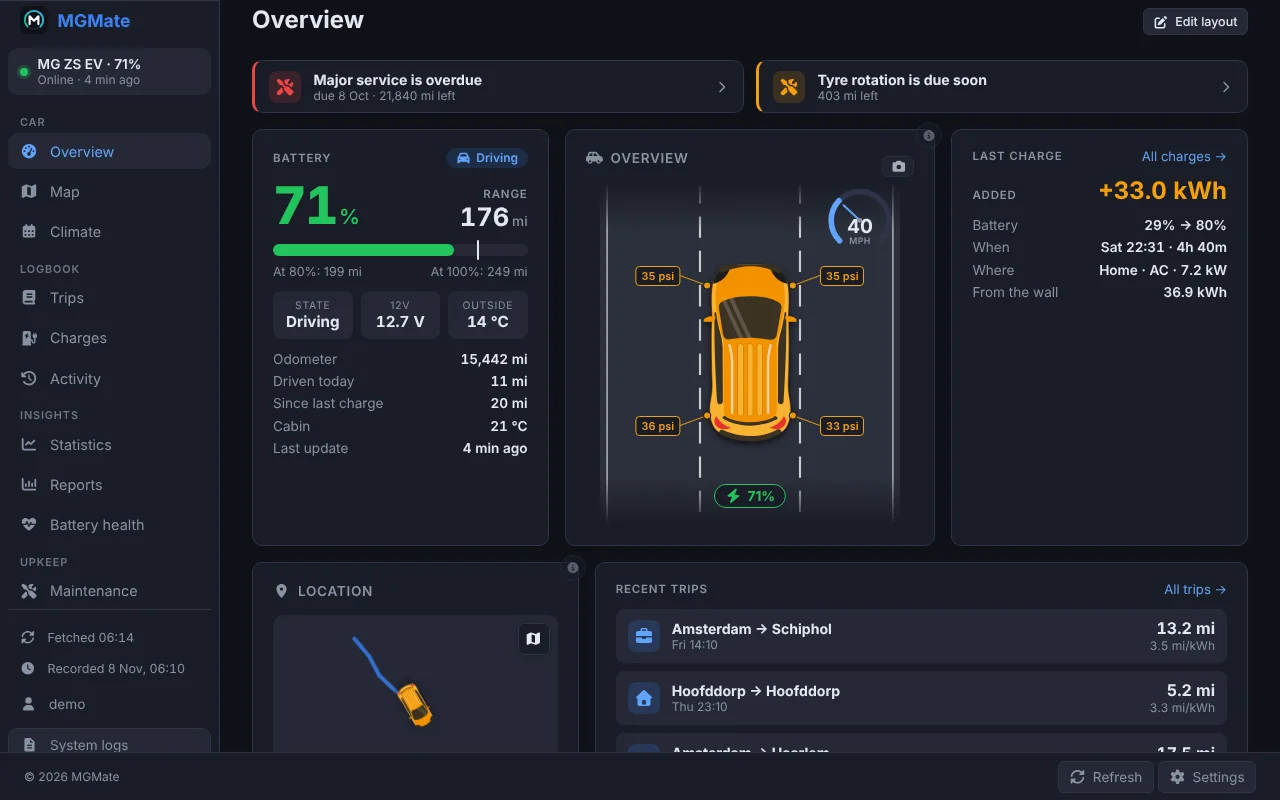
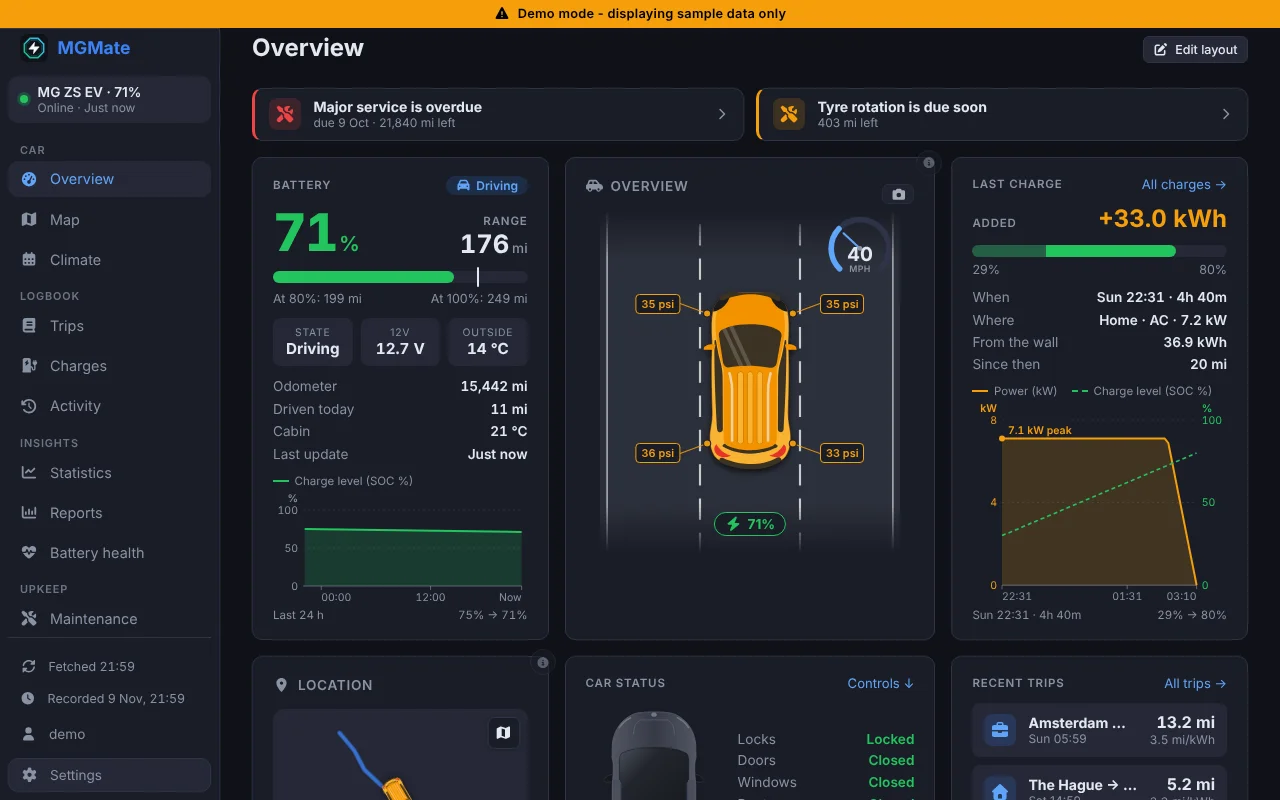
README: describe everything added since the rebrand, with new screenshots
- New demo screenshots on desktop and phone, plus Settings, Debug and the
  Overview while charging (pnpm screenshots now takes those too)
- README: redesigned Overview, live charging card, car status drawing,
  Settings page and Home location, Debug page, MG sign-in banner, 24 h
  statistics, AC peak fix, battery health calibration, security hardening
- Says what was removed: Home Assistant (the gateway's discovery messages
  are still read internally) and Dutch
- Version and update notice moved from the footer to the sidebar in the docs
- CONTRIBUTING, AGENTS.md, CLAUDE.md and the PR template: every feature PR
  updates the README and its screenshots

Claude-Session: https://claude.ai/code/session_01JCP7VXjJbkT4NkJqH8gmAt

diff --git a/README.md b/README.md
@@ -6,17 +6,18 @@
 [![Docker image build](https://github.com/ViriatusOG/MGMate/actions/workflows/docker-publish.yml/badge.svg?branch=main)](https://github.com/ViriatusOG/MGMate/actions/workflows/docker-publish.yml)
 [![MIT licence](https://img.shields.io/github/license/ViriatusOG/MGMate)](LICENSE)
 
-![The MGMate overview: battery and range, the car on the road with its tyre pressures and speed, the last charge with the energy added, where the car is, and the latest trips](documentation/screenshots/desktop-dashboard.webp)
+![The MGMate overview: the battery with its range and a 24-hour charge level chart, the car on the road with its tyre pressures and speed, the last charge with its power curve, where the car is, the car status and the latest trips](documentation/screenshots/desktop-dashboard.webp)
 
 MGMate is a free, open-source web app for **modern MG cars**, the ones built by SAIC Motor such as the MG4, MG5, ZS EV and HS PHEV. It signs in to the SAIC iSmart API, the same backend the official MG iSmart app uses, records everything the car reports, and turns it into a logbook you can actually use, on a desktop or a phone:
 
-- **See the car at a glance.** Battery, range, tyre pressures, doors, windows and climate on one overview, with the last charge and your latest trips beside them, and your own photo of the car while it is parked.
+- **See the car at a glance.** Battery, range and the last 24 hours of charge level, tyre pressures, the last charge with its power curve, and a drawing of the car from above that shows which doors, windows, boot or bonnet are open, whether it is locked and whether the cable is in. While the car charges, the battery card turns into a live charging card with the power, voltage, current and target.
 - **Every trip, logged.** Trips are saved automatically with the energy they used, mi/kWh, driving and stopped time, the outside temperature and the battery they started and ended on, drawn on the map along the roads you took.
 - **Every charge, logged.** Each plug-in becomes a charge session: energy added, AC or DC, peak power, how long it took, where it was, and what it cost at your electricity prices, with what came from the wall next to what reached the battery.
 - **Reports, month by month.** Distance, trips, driving time, consumption, energy charged and charging cost for each month, against the month before, with a 12-month chart and a yearly table.
-- **Know your battery.** Battery health works out the usable capacity from your charges, compares it with the pack when new, and shows the trend over time. The 12V battery, temperatures, distance and range get charts of their own on Statistics.
+- **Know your battery.** Battery health works out the usable capacity from your charges, compares it with the pack when new, and shows the trend over time. It waits for a charge to 100 % first, because that is when the car knows its charge level exactly. The 12V battery, temperatures, distance and range get charts of their own on Statistics.
 - **Keep a trip log for the taxman.** Mark trips as business, commute or private, add notes, search them, and export a month or a year as a spreadsheet.
 - **Control it from anywhere.** Pre-condition the cabin, lock the car or flash its lights to find it, and see whether the car actually carried the command out, without waking the car more than it needs.
+- **See everything the car reports.** Switch on Advanced in Settings and a Debug page lists every sensor and control the MG gateway announces, with its latest value and whether MGMate keeps its history.
 - **Hear about it when something is off.** Push notifications for low tyre pressure, a car left unlocked, a window left open, charging complete, maintenance coming due and more.
 - **Keep it yours.** Everything runs in Docker on your own hardware, as one all-in-one container or a Compose stack. No subscription, and no account needed beyond your MG login.
 
@@ -25,6 +26,12 @@ MGMate is a free, open-source web app for **modern MG cars**, the ones built by 
 ## Screenshots
 
 The screenshots use the demo's sample car and trips.
+
+### While charging
+
+The battery card becomes a live charging card, and the car status drawing shows the cable in, an open boot and an open window:
+
+![The overview while the car charges at home: 16.2 kW at 386 V and 42 A towards an 80 % target, the car from above with the charging cable, and the car status card listing the open window and boot](documentation/screenshots/desktop-dashboard-charging.webp)
 
 ### Trips
 
@@ -44,15 +51,29 @@ Every charge, with the energy added, how long it took, AC or DC, and where:
 
 ### Battery health
 
-![The Battery health page: a gauge at 100 % health, the usable capacity of 64.1 kWh against a 64 kWh pack, the charges it is based on, the trend, and a chart of the capacity readings over time](documentation/screenshots/desktop-battery-health.webp)
+![The Battery health page: a gauge at 100 % health, the usable capacity of 64.1 kWh against a 64 kWh pack with a note that it reads above new, the charges it is based on, the trend, and a chart of the capacity readings over time](documentation/screenshots/desktop-battery-health.webp)
+
+### Settings
+
+Settings is a page of its own, with a section list on the left. Home location sets where you charge at home, with a radius you drag:
+
+![The Settings page: appearance, region and units, and the home location on a map with a 250 m radius slider](documentation/screenshots/desktop-settings.webp)
+
+### Debug
+
+With **Settings > Advanced** switched on, the Debug page lists everything the MG gateway announces for the car, like a device page in a smart-home app: what it is, its latest value, whether MGMate saves it, and the controls, each of which asks before it sends:
+
+![The Debug page: the car's model and gateway version, how many values are saved on every poll, what MG cannot do (open or close windows), and the controls and sensors with their latest values](documentation/screenshots/desktop-debug.webp)
 
 ### On a phone
 
 <!-- markdownlint-disable MD033 -->
 
-| Overview | Trips | Charges | Reports |
-| -------- | ----- | ------- | ------- |
-| <img src="documentation/screenshots/mobile-dashboard.webp" alt="The overview on a phone" width="200"> | <img src="documentation/screenshots/mobile-trips.webp" alt="Trips on a phone, with a week strip and the day's trips" width="200"> | <img src="documentation/screenshots/mobile-charges.webp" alt="Charges on a phone" width="200"> | <img src="documentation/screenshots/mobile-reports.webp" alt="Reports on a phone" width="200"> |
+| Overview | Charging | Trips | Charges |
+| -------- | -------- | ----- | ------- |
+| <img src="documentation/screenshots/mobile-dashboard.webp" alt="The overview on a phone" width="200"> | <img src="documentation/screenshots/mobile-dashboard-charging.webp" alt="The live charging card and the car from above on a phone" width="200"> | <img src="documentation/screenshots/mobile-trips.webp" alt="Trips on a phone, with a week strip and the day's trips" width="200"> | <img src="documentation/screenshots/mobile-charges.webp" alt="Charges on a phone" width="200"> |
+| **Reports** | **Battery health** | **Settings** | **Debug** |
+| <img src="documentation/screenshots/mobile-reports.webp" alt="Reports on a phone" width="200"> | <img src="documentation/screenshots/mobile-battery-health.webp" alt="Battery health on a phone" width="200"> | <img src="documentation/screenshots/mobile-settings.webp" alt="Settings on a phone" width="200"> | <img src="documentation/screenshots/mobile-debug.webp" alt="The Debug page on a phone" width="200"> |
 
 <!-- markdownlint-enable MD033 -->
 
@@ -70,9 +91,18 @@ MGMate is based on [GarageStack](https://github.com/joszz/GarageStack) by Jos Ni
 - **Statistics** for the 12V battery, distance, range and temperatures, and consumption against outside temperature
 - **Trip detail** with energy, driving and stopped time, median speed, the battery range used and a GPX download
 - **A car photo** on the overview, and **battery-friendly polling** that only wakes the car when you ask it to
-- **A redesigned interface** with a grouped sidebar, a phone tab bar and a new icon
+- **A redesigned overview** with a live charging card, a car status drawing traced from an MG4 seen from above, and small charge level and charging power charts
+- **Settings as a page**, with your **home location** and its radius, and an **Advanced** switch for a **Debug** page of everything the gateway reports
+- **A clear warning when the MG sign-in fails**, in the sidebar and as a banner, instead of data that silently stops
+- **A redesigned interface** with a grouped sidebar, a phone tab bar, the version and Refresh in the sidebar, and a new icon
+- **English only**, and **no Home Assistant integration** (see [What was removed](#what-was-removed))
 
 Thanks to Jos for the foundation.
+
+### What was removed
+
+- **Home Assistant.** MGMate no longer publishes sensors to Home Assistant, and the `HA_MQTT_*` settings and the external MQTT port (1883) are gone. If you used them, remove those settings and the port mapping; nothing else needs changing. The MG gateway still sends its own discovery messages (the Home Assistant MQTT discovery format) inside the stack, and MGMate still reads them to tell which kind of car it is and to fill the Debug page, so don't switch them off in the gateway.
+- **Dutch.** The interface, notifications and exports are English only. A fork can add a language again; see [Adding a language](.github/CONTRIBUTING.md#adding-a-language).
 
 **Want to try it?** Read [MG iSmart account and session limits](#mg-ismart-account-and-session-limits) first, because MGMate and the MG app cannot be signed in to the same account at once, then pick an [installation option](#installation). A single `docker run` is enough to get going.
 
@@ -92,17 +122,21 @@ Thanks to Jos for the foundation.
 
 ## Features
 
-- **Charges** -- Every plug-in is saved as a charge session with the energy added, AC or DC, peak power, duration, place, the battery before and after, and the cost at the electricity prices you set (Charges > Prices). On AC the energy drawn from the wall is shown next to what reached the battery.
+- **Charges** -- Every plug-in is saved as a charge session with the energy added, AC or DC, peak power, duration, place, the battery before and after, and the cost at the electricity prices you set (Charges > Prices). On AC the energy drawn from the wall is shown next to what reached the battery. The peak power of an AC charge leaves out the short spike when the car pre-heats or cools the cabin just after charging stops. A charge that ends at your [home location](#features) is labelled home.
 - **Reports** -- A page per month with distance, trips, driving time, days driven, consumption, energy used, charges, energy charged and charging cost, each against the month before, plus a 12-month chart and a table of the year.
-- **Battery health** -- The usable capacity worked out from charges that covered at least 20 % of the battery, compared with the pack when new (51, 64 or 77 kWh, or your own), with the trend and every reading on a chart.
+- **Battery health** -- The usable capacity worked out from charges that covered at least 20 % of the battery, compared with the pack when new (51, 64 or 77 kWh, or your own), with the trend and every reading on a chart. The car only knows its exact charge level after a full charge (LFP packs drift the most), so health shows *Calibrating* until a charge reaches 100 %; from then on only readings with a full charge in the 30 days before them count, and the earlier ones are drawn hollow. Health never shows above 100 %: a pack that reads above new says so in a note, and fewer than five readings are marked as an early estimate.
 - **Activity** -- A 24-hour strip and a timeline of when the car drove, charged, slept or went quiet, read from the car's own reports.
-- **Live dashboard** -- Real-time vehicle telemetry displayed as configurable cards. Cards are automatically shown or hidden based on your vehicle type (HEV, PHEV, BEV) and can be reordered or toggled individually in the dashboard's edit mode. The car drawn on the dashboard takes your car's colour (Settings > Car colour), and the vehicle type can be set by hand under Settings > Vehicle type when detection gets it wrong.
+- **Overview** -- The battery with its range and a 24-hour charge level chart; the car on the road with its speed and tyre pressures (or your own photo of it while parked); the last charge with the energy added, where, what came from the wall, the miles since, and its charging power curve with the peak marked; where the car is; a **car status** drawing from above, traced from a real MG4, with open doors, windows, boot and bonnet, the lock and the charging cable; and the latest trips. While the car charges, the battery card becomes a **live charging card** with the power, voltage, current, the charge target and the range so far. The charts have labelled axes, units and a legend. Values arrive live over a WebSocket; while that connection is down, the page asks for the latest status every minute so it never sits on stale numbers.
+- **Live dashboard cards** -- Behind **Edit layout**, the classic wall of status cards (see [Dashboard cards](#dashboard-cards)) can be switched on, reordered and toggled. Cards are shown or hidden based on your vehicle type (HEV, PHEV, BEV). The car drawing takes your car's colour (Settings > Your car), and the vehicle type can be set by hand there when detection gets it wrong.
+- **MG sign-in status** -- When the gateway cannot sign in to your MG account, the sidebar's car status turns red and a banner says "MG sign-in failed", so you know why the data stopped. The sidebar also shows when data was last fetched (tap it to refresh, which asks first because it wakes the car) and the version, under Log out.
+- **Settings page** -- Settings is a page (`/settings`) with a section list: appearance, region and units, dashboard, map, your car (colour, vehicle type, licence plate), **home location**, notifications, API tokens, your data, and Advanced. Home location is a point on a map with a radius from 50 m to 1 km: a charge that ends inside it counts as a home charge and is priced with your home tariff; anywhere else is public. The home place set under Trip log > Home and work labels home charges too.
+- **Debug page** -- Switch on **Settings > Advanced** and a Debug page appears in the sidebar. It lists every sensor and control the MG gateway announces for the car, grouped like a smart-home device page, with the latest value, when it changed, and whether MGMate saves it on every poll, keeps only the newest value, or shows it live only. Controls ask before they send, and only commands the gateway offers can be sent. It also says what MG's API cannot do: it reports whether each window is open but cannot open or close them.
 - **Tyre history** -- Tap a tyre's pressure on the dashboard's car to see a month of daily pressures for all four tyres, and how each one moved against the other three over the last two weeks: a tyre falling behind the others while they hold is a slow puncture, which also sends a notification.
 - **Trip history** -- Browse past journeys on an interactive map, each drawn on the roads it took and coloured by speed or by the speed limit, with a heatmap of the roads you drive most. Each trip is saved to the database a few minutes after the car parks. After upgrading from a version that did not save trips, the existing history is saved in the background on the Worker's first start.
 - **Trip log** -- Mark each trip as business, commute or private (commutes between your home and work are marked automatically), add notes, hide a GPS glitch, join two trips a fuel stop split, and export a month or a year as a spreadsheet with the addresses and odometer readings a tax trip log (such as the Dutch *rittenregistratie*) asks for. See [Trip log](#trip-log).
 - **Maintenance** -- Keep the car's service items (oil, tyres, the yearly inspection, ...) with a distance interval, a time interval or both. MGMate works out from the odometer and your service log when each one is due, shows the most urgent on the dashboard, and sends a notification when an item reaches 90 % of its interval. Log each service with its date, odometer reading and notes.
 - **Dutch registration (RDW)** -- For a car with a Dutch licence plate, a dashboard card with the date the APK runs out and the days left, open recalls with what can go wrong and what the dealer does about it, and whether the car is insured, from the [RDW's open data](https://opendata.rdw.nl). Notifications come for a new recall, the APK a month and a week ahead, and a car with no insurance on record. Off until `RDW_ENABLED=true`; the plate, entered under Settings, is the only thing sent. See [Dutch registration (RDW)](#dutch-registration-rdw).
-- **Energy statistics** -- Track daily energy consumption, efficiency (Wh/km on a plug-in car, L/100 km on a hybrid), fuel use, electric share, average driving speed, and more, for any period from a week to several years.
+- **Energy statistics** -- Track daily energy consumption, efficiency (Wh/km on a plug-in car, L/100 km on a hybrid), fuel use, electric share, average driving speed, and more, for any period from the last 24 hours to several years.
 - **Remote commands** -- Trigger climate pre-conditioning (normal climate, fan only or front defrost), lock or unlock the car, open the boot, and activate the horn and lights remotely from the dashboard. On a plug-in car also start or stop charging, lock or unlock the charging cable, switch battery heating on or off, set the charging and battery heating schedules, and set the charge current limit and, where the car takes one, the charge target. Opening the boot and unlocking the cable ask for a second tap. Each command reports whether the car carried it out, and if it refused, the reason the MG servers gave.
 - **Climate schedules** -- Switch climate on at a set time on chosen weekdays, or once. A schedule sets the temperature or mode, seat heating and the rear defroster, and can skip mild days by the car's outside temperature. Schedules run on the server, so no browser needs to be open, and each run sends a push notification saying whether the car started climate.
 - **Push notifications** -- Browser and in-app alerts for key events: engine started, low or high tyre pressure, a slow puncture, low EV battery, low fuel, a weak 12V battery, car left unlocked, doors or windows left open, the car moving while parked, arriving at or leaving home or work, a charge that finished or stopped early, maintenance coming due, the APK running out or a recall on a Dutch plate, a climate schedule that ran, the messages the official MG app receives, and data that stopped arriving because the MG sign-in failed or the car went quiet. Each device chooses which ones it gets.
@@ -122,12 +156,12 @@ Thanks to Jos for the foundation.
 - **Single sign-on** -- Sign in through your own identity provider (Authentik, Authelia, Keycloak, Pocket ID, Google, and anything else speaking OpenID Connect), with optional auto-login and group or email based access restrictions. A built-in username/password login remains available for installs without a provider. See [`AUTHENTICATION.md`](documentation/AUTHENTICATION.md).
 - **English interface** -- MGMate ships in English only. The translation structure is kept, so a fork can add its own language; see [Adding a language](.github/CONTRIBUTING.md#adding-a-language).
 - **Region and units** -- Kilometres or miles, Celsius or Fahrenheit, bar, psi or kPa for tyres, L/100 km or miles per UK or US gallon for fuel, and a 24-hour or 12-hour clock. Each one follows the region the browser is in (taken from its time zone, so an English browser in the Netherlands still gets kilometres and 14:05), and can be set by hand under Settings > Region and units, as can the region itself, which also sets the date order. Everything is stored in metric and converted only for display, so switching back and forth loses nothing; the trip log's CSV export follows the chosen distance unit and clock. The homepage widget and the `TYRE_PRESSURE_*_BAR` thresholds stay metric, and notifications use a 24-hour clock.
-- **Settings follow you** -- Theme, language, units, the dashboard layout and the map's layers and filters are saved to your account, so every phone, tablet and computer you sign in on looks the same. Each browser keeps a copy too, so pages open instantly and the login page keeps your theme and language. After upgrading, the first device to sign in brings its settings along.
+- **Settings follow you** -- Theme, units, the dashboard layout and the map's layers and filters are saved to your account, so every phone, tablet and computer you sign in on looks the same. Each browser keeps a copy too, so pages open instantly and the login page keeps your theme. After upgrading, the first device to sign in brings its settings along.
 - **Self-hosted** -- Runs entirely on your own infrastructure via Docker (all-in-one container or Docker Compose). No cloud account or subscription required beyond the SAIC iSmart API.
 
 ### Dashboard cards
 
-Cards are shown or hidden automatically based on vehicle type (HEV / PHEV / BEV). You can also reorder and toggle individual cards in the dashboard's edit mode.
+The overview above is what you see by default. The classic status cards below are switched on under **Edit layout > Show status cards**. They are shown or hidden automatically based on vehicle type (HEV / PHEV / BEV), and you can reorder and toggle each one in the edit mode.
 
 | Card | Description | Vehicle types |
 | ---- | ----------- | ------------- |
@@ -161,7 +195,7 @@ Cards are shown or hidden automatically based on vehicle type (HEV / PHEV / BEV)
 
 ### Statistics insights
 
-The Statistics view shows insight cards and charts for a period of its own: the last 7, 30 or 90 days, this or last month, this or last year, or custom dates. Charts show a point per day up to about three months, per week up to a year, and per month beyond that. A period longer than a month also gets a table of trips, distance and energy per month. Cards are draggable and individually toggleable.
+The Statistics view shows insight cards and charts for a period of its own: the last 24 hours, the last 7, 30 or 90 days, this or last month, this or last year, or custom dates. Charts show a point per day up to about three months, per week up to a year, and per month beyond that. A period longer than a month also gets a table of trips, distance and energy per month. Cards are draggable and individually toggleable.
 
 | Insight | Description |
 | ------- | ----------- |
@@ -315,7 +349,7 @@ docker stop mgmate && docker rm mgmate
 # Re-run your original docker run command
 ```
 
-When a newer release is out, the footer says so and links to its release notes. MGMate asks GitHub once a day; set `UPDATE_CHECK_ENABLED=false` to stop it. A Compose build only knows its own version when you pass one, so build with `APP_VERSION=$(git describe --tags) docker compose up -d --build` to get the notice.
+When a newer release is out, the sidebar says so under the version and links to its release notes. MGMate asks GitHub once a day; set `UPDATE_CHECK_ENABLED=false` to stop it. A Compose build only knows its own version when you pass one, so build with `APP_VERSION=$(git describe --tags) docker compose up -d --build` to get the notice.
 
 ### Monitoring
 
@@ -461,7 +495,7 @@ Note: "keys left in the car" is not currently supported because the SAIC MQTT ga
 - **Totals.** The distance per purpose for the period is shown at the top.
 - **Distance.** A trip counts for the distance on its odometer when the car reported a reading at both ends. Otherwise it counts for the distance along its GPS fixes, which is a little short because the fixes cut corners.
 - **Addresses** are looked up once through the same OpenStreetMap geocoder as the map, and then kept with the trip for good, so a log exported next year still shows them. With place names switched off (Settings > Map, or `GEOCODING__ENABLED=false`), ends show as coordinates and no lookups are made.
-- **Export CSV** saves the period, hidden trips left out, as a spreadsheet: date, departure and arrival time, from and to address, odometer start and end, distance, purpose and notes. The file follows the interface language: comma-separated in English, and semicolon-separated with decimal commas in Dutch, so it opens in columns in Excel either way.
+- **Export CSV** saves the period, hidden trips left out, as a spreadsheet: date, departure and arrival time, from and to address, odometer start and end, distance, purpose and notes. The file is comma-separated, so it opens in columns in Excel.
 
 Only trips the Worker has saved can be logged, so the trip being driven, and one finished in the last few minutes, appear once the car has been parked for a while.
 
@@ -544,7 +578,7 @@ The map view supports four POI overlay layers: charging stations, fuel stations,
 The map underneath every overlay is drawn from OpenStreetMap vector tiles by [MapLibre GL](https://maplibre.org), served by [OpenFreeMap](https://openfreemap.org) -- no API key required.
 
 - The basemap follows the interface theme: a dark style in the dark theme, a light one in the light theme, switching without a page reload. Turn on **Colourful maps** in Settings to show every map in full colour instead, whatever the theme. The setting covers every map in the app, the dashboard's location card included.
-- Labels follow the interface language, so the same map reads "Duitsland" in Dutch and "Germany" in English. Names come from OpenStreetMap's own `name:<language>` tags and fall back to the local name where no translation exists.
+- Labels are in English (OpenStreetMap's `name:en` tags) and fall back to the local name where no translation exists.
 - The renderer (about 1.5 MB) is downloaded only when a page with a map opens, and is deliberately kept out of the service worker's precache so an install does not pay for it up front.
 - A browser without WebGL, or a tile server that cannot be reached, falls back to the classic OpenStreetMap raster tiles automatically.
 - To serve the basemap yourself (your own OpenFreeMap or any MapLibre style), build the frontend image with `--build-arg MAP_STYLE_DARK=...`, `--build-arg MAP_STYLE_LIGHT=...` and `--build-arg MAP_STYLE_COLORFUL=...`, and add that host to `connect-src` and `img-src` in `frontend/nginx-security-headers.conf` -- the Content-Security-Policy only allows the hosts listed there.
@@ -598,7 +632,7 @@ Sourced from OpenStreetMap via [Nominatim](https://nominatim.openstreetmap.org) 
 - The dashboard's location card and the car's map popup show the street and city the car is standing in.
 - Answers are cached in PostgreSQL for 90 days, keyed by a coordinate grid and by language, so the same parking spot is looked up once. "Nothing mapped here" is cached for a day, since OSM coverage grows.
 - The public Nominatim instance allows about one request per second, so a request resolves at most three new coordinates and the browser asks again for the rest; a cold trip list fills in over a few seconds and is instant from then on.
-- Names follow the interface language, so switching between English and Dutch looks the places up again in that language.
+- Names are asked for in English, and fall back to the local name.
 - **Settings > Map > Show place names** turns the whole thing off (it is on by default). Off, trips are listed by date, the location card shows no address, and no coordinates leave the browser.
 - Set `GEOCODING__ENABLED=false` to switch it off for the whole deployment instead, or point `GEOCODING__BASEURL` at your own Nominatim instance.
 
@@ -636,6 +670,9 @@ A reading counts as over the limit only past 5 km/h above it: speedometers read 
 - With an identity provider, restrict who may sign in -- at the provider itself or with `OIDC_ALLOWED_GROUPS` / `OIDC_ALLOWED_EMAILS`. Without a restriction, every account the provider accepts can sign in and control the car.
 - Login endpoints are rate-limited per IP address on top of the global limit.
 - MQTT requires credentials, and the broker is never published outside the stack: only MGMate's own services and the gateway can reach it.
+- Requests are rate-limited per address, and also per device in front of the frontend container unless you list your proxies (see [Reverse proxy examples](#reverse-proxy-examples)), so a device on your LAN cannot get round the limits by claiming new addresses.
+- Every container image MGMate builds on (the gateway, PostgreSQL, Mosquitto, nginx, .NET) is pinned by digest, so an upstream tag that changes cannot change what you run without a new MGMate release. The server logs under `/data/logs` are readable by root only.
+- Each change is tested by starting the whole Compose stack and the all-in-one container in CI, with a gateway that never contacts MG.
 - The frontend sends a strict Content-Security-Policy with every response, which allows scripts only from MGMate itself. See [Behind a reverse proxy or CDN](#behind-a-reverse-proxy-or-cdn) for keeping it intact.
 
 ### What leaves your network

diff --git a/documentation/screenshots/README.md b/documentation/screenshots/README.md
@@ -4,9 +4,13 @@ The main pages of MGMate, on a desktop and on a phone. They were taken in [demo 
 
 ## Desktop
 
-### Dashboard
+### Overview
 
-![The dashboard: the car on the road with its speed, tyre pressures and charge, a map of where it is, and cards for the battery, range, doors, windows, climate and today's driving](desktop-dashboard.webp)
+![The overview: the battery with a 24-hour charge level chart, the car on the road with its speed and tyre pressures, and the last charge with its power curve](desktop-dashboard.webp)
+
+### Overview while charging
+
+![The overview while charging: the live charging card with power, voltage, current and target, the car parked with the cable in, and the car status card with an open window and boot](desktop-dashboard-charging.webp)
 
 ### Map
 
@@ -44,6 +48,14 @@ The main pages of MGMate, on a desktop and on a phone. They were taken in [demo 
 
 ![The climate schedules: a weekday schedule at 07:30 with seat heating, and a one-off front defrost at 08:15, each with when it runs next](desktop-climate-schedules.webp)
 
+### Settings
+
+![Settings: appearance, region and units, and the home location with its radius](desktop-settings.webp)
+
+### Debug
+
+![The Debug page: device info, data coverage, what MG cannot do, and the controls and sensors with their latest values](desktop-debug.webp)
+
 ### Light theme
 
 ![The dashboard in the light theme](desktop-dashboard-light.webp)
@@ -52,13 +64,15 @@ The main pages of MGMate, on a desktop and on a phone. They were taken in [demo 
 
 <!-- markdownlint-disable MD033 -->
 
-| Dashboard | Map | A single trip | Light theme |
-| --------- | --- | ------------- | ----------- |
+| Overview | Map | A single trip | Light theme |
+| -------- | --- | ------------- | ----------- |
 | <img src="mobile-dashboard.webp" alt="The dashboard on a phone" width="180"> | <img src="mobile-map.webp" alt="The map on a phone" width="180"> | <img src="mobile-map-trip.webp" alt="One trip against the speed limits on a phone" width="180"> | <img src="mobile-dashboard-light.webp" alt="The dashboard on a phone in the light theme" width="180"> |
 | **Trips** | **Charges** | **Reports** | **Battery health** |
 | <img src="mobile-trips.webp" alt="Trips on a phone" width="180"> | <img src="mobile-charges.webp" alt="Charges on a phone" width="180"> | <img src="mobile-reports.webp" alt="Reports on a phone" width="180"> | <img src="mobile-battery-health.webp" alt="Battery health on a phone" width="180"> |
-| **Statistics** | **Maintenance** | **Climate schedules** | |
-| <img src="mobile-statistics.webp" alt="The statistics on a phone" width="180"> | <img src="mobile-maintenance.webp" alt="The maintenance list on a phone" width="180"> | <img src="mobile-climate-schedules.webp" alt="The climate schedules on a phone" width="180"> | |
+| **Statistics** | **Maintenance** | **Climate schedules** | **Charging** |
+| <img src="mobile-statistics.webp" alt="The statistics on a phone" width="180"> | <img src="mobile-maintenance.webp" alt="The maintenance list on a phone" width="180"> | <img src="mobile-climate-schedules.webp" alt="The climate schedules on a phone" width="180"> | <img src="mobile-dashboard-charging.webp" alt="The live charging card on a phone" width="180"> |
+| **Settings** | **Debug** | | |
+| <img src="mobile-settings.webp" alt="Settings on a phone" width="180"> | <img src="mobile-debug.webp" alt="The Debug page on a phone" width="180"> | | |
 
 <!-- markdownlint-enable MD033 -->
 
@@ -72,4 +86,4 @@ docker compose --env-file .env.demo -f docker-compose.demo.yml up -d --build   #
 cd frontend && pnpm screenshots                                                 # or: pnpm screenshots http://localhost:5173
 ```
 
-It signs in as `demo`, and takes the desktop screenshots at 1280 x 800 and the phone screenshots at 390 x 844 at twice the pixel density, in the dark theme with the date filter on 30 days and the region set to the UK (miles, psi, pounds), plus the dashboard in the light theme. The maps need the internet for their tiles; behind a proxy, `HTTPS_PROXY` is used for them. `CHROMIUM_PATH` points it at a Chromium other than Playwright's own. Keep the manifest's `sizes` in `frontend/vite.config.ts` in step if the sizes change.
+It signs in as `demo`, switches the Debug page on, and takes the desktop screenshots at 1280 x 800 (the charging overview taller, to show the car status card) and the phone screenshots at 390 x 844 at twice the pixel density, in the dark theme with the date filter on 30 days and the region set to the UK (miles, psi, pounds), plus the overview in the light theme. For the charging overview it parks the demo car and plugs it in through the demo API, and puts it back on the road afterwards. Run it against a freshly started demo API: the API's rate limit can cut a second run short (start the local API with `RATE_LIMIT_GLOBAL_PER_MINUTE=10000` to avoid that). The maps need the internet for their tiles; behind a proxy, `HTTPS_PROXY` is used for them. `CHROMIUM_PATH` points it at a Chromium other than Playwright's own. Keep the manifest's `sizes` in `frontend/vite.config.ts` in step if the sizes change.

diff --git a/documentation/PREVIEW_BUILDS.md b/documentation/PREVIEW_BUILDS.md
@@ -27,7 +27,7 @@ Contents:
 
    > A build with a possible fix is ready to try. If you're not on the latest release yet, update to it first. Then switch your MGMate image to `pr-123` as described in [this comment](link to the preview comment), use the car as usual for a day, and let me know what the dashboard shows. Afterwards switch back to the latest release. Step by step: [Testing a preview build](https://github.com/ViriatusOG/MGMate/blob/main/documentation/PREVIEW_BUILDS.md#testing-a-preview-build).
 
-5. **Iterate.** Push more commits to the same branch. The `pr-123` tag follows the pull request, so the tester only has to pull again (Unraid: *Force update*; Compose: run the same command again). The footer version ends in `.pr.123`, and the comment shows which commit it is.
+5. **Iterate.** Push more commits to the same branch. The `pr-123` tag follows the pull request, so the tester only has to pull again (Unraid: *Force update*; Compose: run the same command again). The version under Log out ends in `.pr.123`, and the comment shows which commit it is.
 6. **Finish.**
    - **It works:** merge. The images are deleted and the fix reaches everyone through `latest`. Ask the tester to switch back to `latest`.
    - **It does not work:** close the pull request (or just remove the label while you rethink). The images are deleted and nothing else changed.
@@ -93,7 +93,7 @@ On a system where you cannot put a variable in front of the command (PowerShell,
 
 ### Checking that it runs
 
-The version in the footer ends in `.pr.123` (for example `v0.13.2-preview.0.4.pr.123`).
+The version under Log out ends in `.pr.123` (for example `v0.13.2-preview.0.4.pr.123`).
 
 ### Going back
 
@@ -159,7 +159,7 @@ Details worth knowing:
 - **Images per build.** All four: the all-in-one image and the three Compose services. A new push replaces `pr-<number>`; the older build keeps its `pr-<number>-<commit>` tag until the cleanup removes it. Only rebuilding the very same commit (label off and on) leaves the previous build untagged, which costs a little registry space and nothing else.
 - **Concurrency.** The build and the cleanup share the group `preview-<number>`: closing a pull request stops a build that is still pushing before the images are deleted. A newer push cancels the build of the previous one.
 - **Who can trigger it.** Only people who can label pull requests (triage access and up), and only for branches in this repository. A fork's pull request never gets the packages permission.
-- **Update check.** A preview's version is a pre-release of the next patch, so the footer does not offer the current release as an update.
+- **Update check.** A preview's version is a pre-release of the next patch, so the sidebar does not offer the current release as an update.
 - **Trivy and the security workflow** do not scan previews; they scan `latest` after merge as before.
 
 ---

diff --git a/documentation/CONFIGURATION.md b/documentation/CONFIGURATION.md
@@ -130,14 +130,14 @@ which only appears once this is on.
 | Variable | Default | What it does |
 | --- | --- | --- |
 | `RATE_LIMIT_GLOBAL_PER_MINUTE` | `120` | Requests per minute the API accepts from one address. Raise it when several people share one public address. Login and the widget keep their own, tighter limits. |
-| `UPDATE_CHECK_ENABLED` | `true` | Once a day the API asks GitHub for the latest release, and the footer links to it when it is newer than the running version. `false` keeps the API from contacting GitHub. A build without a version (from source without `APP_VERSION`) never asks. |
+| `UPDATE_CHECK_ENABLED` | `true` | Once a day the API asks GitHub for the latest release, and the sidebar links to it under the version when it is newer than the running version. `false` keeps the API from contacting GitHub. A build without a version (from source without `APP_VERSION`) never asks. |
 | `WIDGET_API_KEY` | none | Key for the Homepage dashboard widget endpoint. Empty switches the endpoint off. See [`WIDGET.md`](WIDGET.md). |
 | `DEBUG_LOGS` | `false` | `true` turns on debug logging in the API and the Worker, including a line for every API request. Without it, only refused (4xx), failed (5xx) and slow (over a second) requests are logged. |
 | `LOG_RETAINED_FILES` | `30` | Log files each service keeps in its `logs` folder: one per day, and another whenever a day's file passes 100 MB. The oldest go first. |
 | `WORKER_LOG_DIRECTORY` | none | Where the API finds the Worker's log files, so the log viewer (the Logs page) shows them as well as its own. The Compose file mounts the Worker's log volume at `/app/worker-logs` and sets this; the all-in-one image sets it itself. Unset, the Logs page shows the API's entries only. |
 | `FRONTEND_PORT` | `8080` | Host port of the web interface (Docker Compose). |
 | `API_PORT` | `5000` | Host port of the API, bound to localhost (Docker Compose). The web interface does not need it. |
-| `APP_VERSION` | `0.0.0-local` | Version shown in the footer of an image built from source: `APP_VERSION=$(git describe --tags) docker compose up -d --build`. Published images carry their own. |
+| `APP_VERSION` | `0.0.0-local` | Version shown under Log out in the sidebar of an image built from source: `APP_VERSION=$(git describe --tags) docker compose up -d --build`. Published images carry their own. |
 
 ## Building from source
 

diff --git a/.github/CONTRIBUTING.md b/.github/CONTRIBUTING.md
@@ -49,6 +49,16 @@ To work against the full stack (real or self-provided credentials):
 - Changed an EF Core entity? Add a migration from the repository root (no Api configuration needed). `dotnet tool restore` installs the pinned `dotnet-ef` first:
   `dotnet ef migrations add <Name> --project src/MGMate.Data --startup-project src/MGMate.Data`
 
+## Keep the README up to date
+
+**Every pull request that adds a feature or changes how something works also updates the [README](../README.md).** The README is how people find out what MGMate does, so a feature that isn't in it might as well not exist. In the same pull request:
+
+- Describe the new feature, or correct the text that no longer matches, in the README's feature list and in the section about that page. Remove what was taken out.
+- When a page looks different, take the screenshots again from the demo (see [Taking new ones](../documentation/screenshots/README.md#taking-new-ones)) and commit them. A new page gets added to `PAGES` in `frontend/scripts/screenshots.mjs` and to the [screenshot gallery](../documentation/screenshots/README.md).
+- Update the other documents the change touches too: settings in [CONFIGURATION.md](../documentation/CONFIGURATION.md), how it works in [ARCHITECTURE.md](../documentation/ARCHITECTURE.md).
+
+A bug fix that does not change what the user sees or does needs no README change.
+
 ## Adding a language
 
 MGMate ships in English only (the Dutch translation was removed). The translation structure is kept, so a fork can add its own language. A new language touches these places (use its two-letter code, here `de`):

diff --git a/AGENTS.md b/AGENTS.md
@@ -1,0 +1,21 @@
+# Notes for AI coding agents
+
+These rules apply to every change in this repository, whoever or whatever makes it.
+
+## Keep the README up to date
+
+Every pull request that adds a feature or changes how something works must update `README.md` in the same pull request:
+
+- Describe the new feature, or correct the text that no longer matches, in the feature list and in the section about that page. Remove what was taken out.
+- When a page looks different, retake the screenshots from the demo with `pnpm screenshots` in `frontend/` (see `documentation/screenshots/README.md`) and commit them. Add a new page to `PAGES` in `frontend/scripts/screenshots.mjs` and to the screenshot gallery.
+- Update `documentation/CONFIGURATION.md` for new settings and `documentation/ARCHITECTURE.md` for how it works.
+- Tick the README item in the pull request template.
+
+A bug fix that does not change what the user sees or does needs no README change. The full contributor guide is `.github/CONTRIBUTING.md`.
+
+## Other standing rules
+
+- The app is English only. Don't add translations; new strings go in `frontend/src/locales/en.json`.
+- Units in examples and screenshots are UK: miles, mi/kWh, psi, £.
+- Never put a personal name in code, the licence, commits, the README or anything public; the maintainer is credited as ViriatusOG. Keep the upstream MIT notice for GarageStack in `LICENSE`.
+- Internal names such as the database, MQTT user, cookie and settings keys stay `garagestack`, so existing installs keep their data.

diff --git a/.github/PULL_REQUEST_TEMPLATE.md b/.github/PULL_REQUEST_TEMPLATE.md
@@ -23,5 +23,6 @@ Closes #
 - [ ] Linting passes (`pnpm lint` / `dotnet build`)
 - [ ] No secrets or personal data committed
 - [ ] Responsive on mobile
-- [ ] i18n keys added for any new UI strings
+- [ ] i18n keys added for any new UI strings (English only)
+- [ ] README updated for any new feature or change in how things work, with new screenshots (`pnpm screenshots`) when a page looks different
 - [ ] If `unraid/mgmate.xml` changed: synced to `ViriatusOG/unraid-community-apps` after merge, through a pull request there (see "Keeping the Community Apps copy in sync" in `documentation/RELEASING.md`)

diff --git a/documentation/RELEASING.md b/documentation/RELEASING.md
@@ -259,7 +259,7 @@ The `stale` workflow runs every Monday at 08:00 UTC:
 
 ## Versioning (MinVer)
 
-MGMate uses MinVer for .NET assembly version metadata and for the version shown in the UI footer.
+MGMate uses MinVer for .NET assembly version metadata and for the version shown in the sidebar under Log out.
 
 - Source of truth is git history + tags with `v` prefix (e.g. `v1.2.3`)
 - On non-tag commits, MinVer produces prerelease versions using `preview.0` as the identifier (e.g. `0.5.1-preview.0.12`, so `latest` images built from `main` show that instead of the last release)
